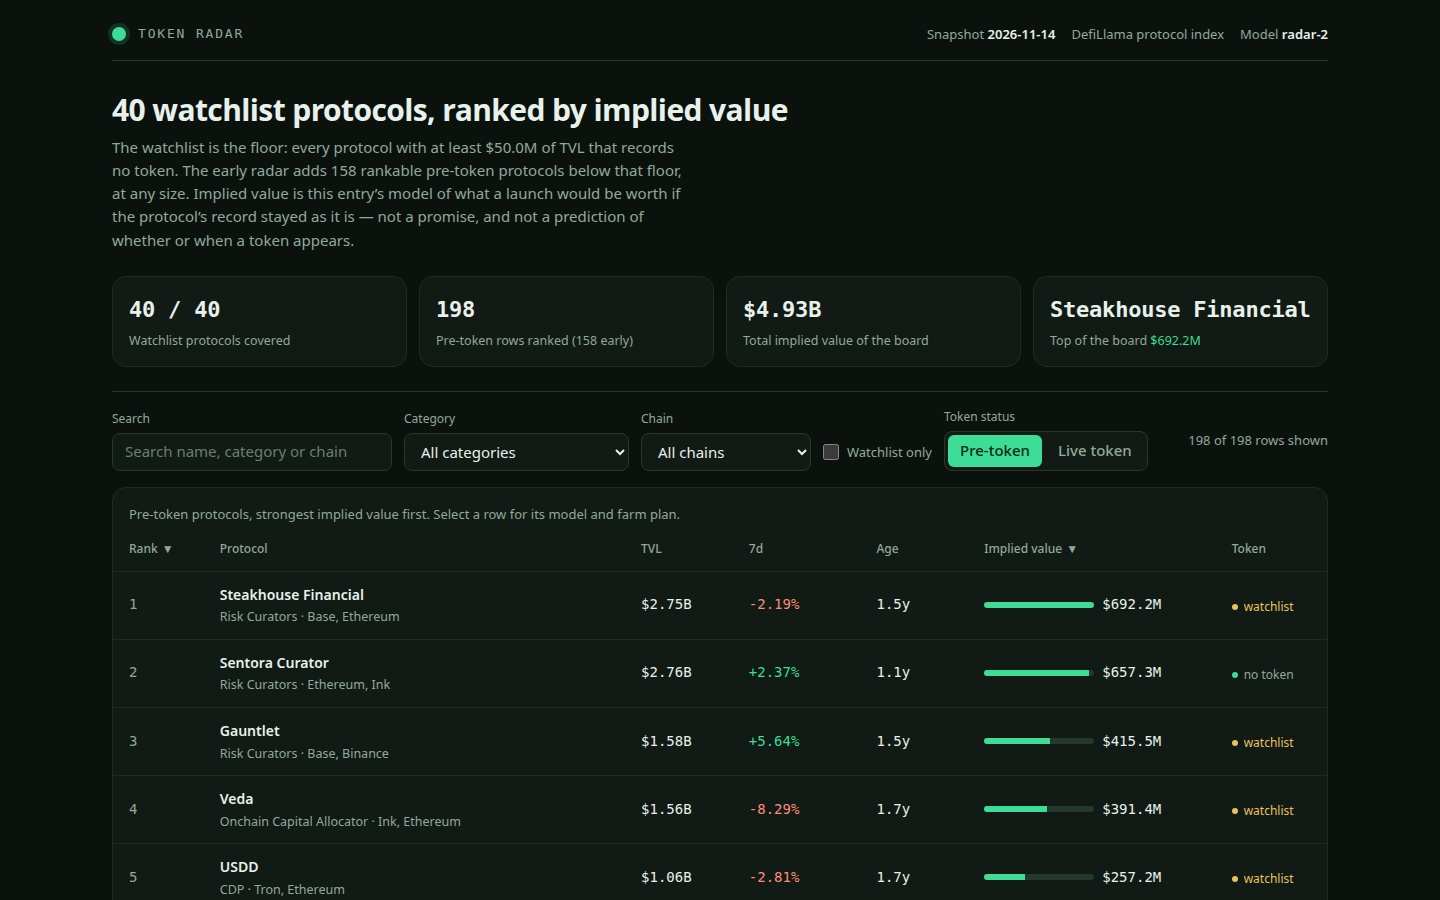
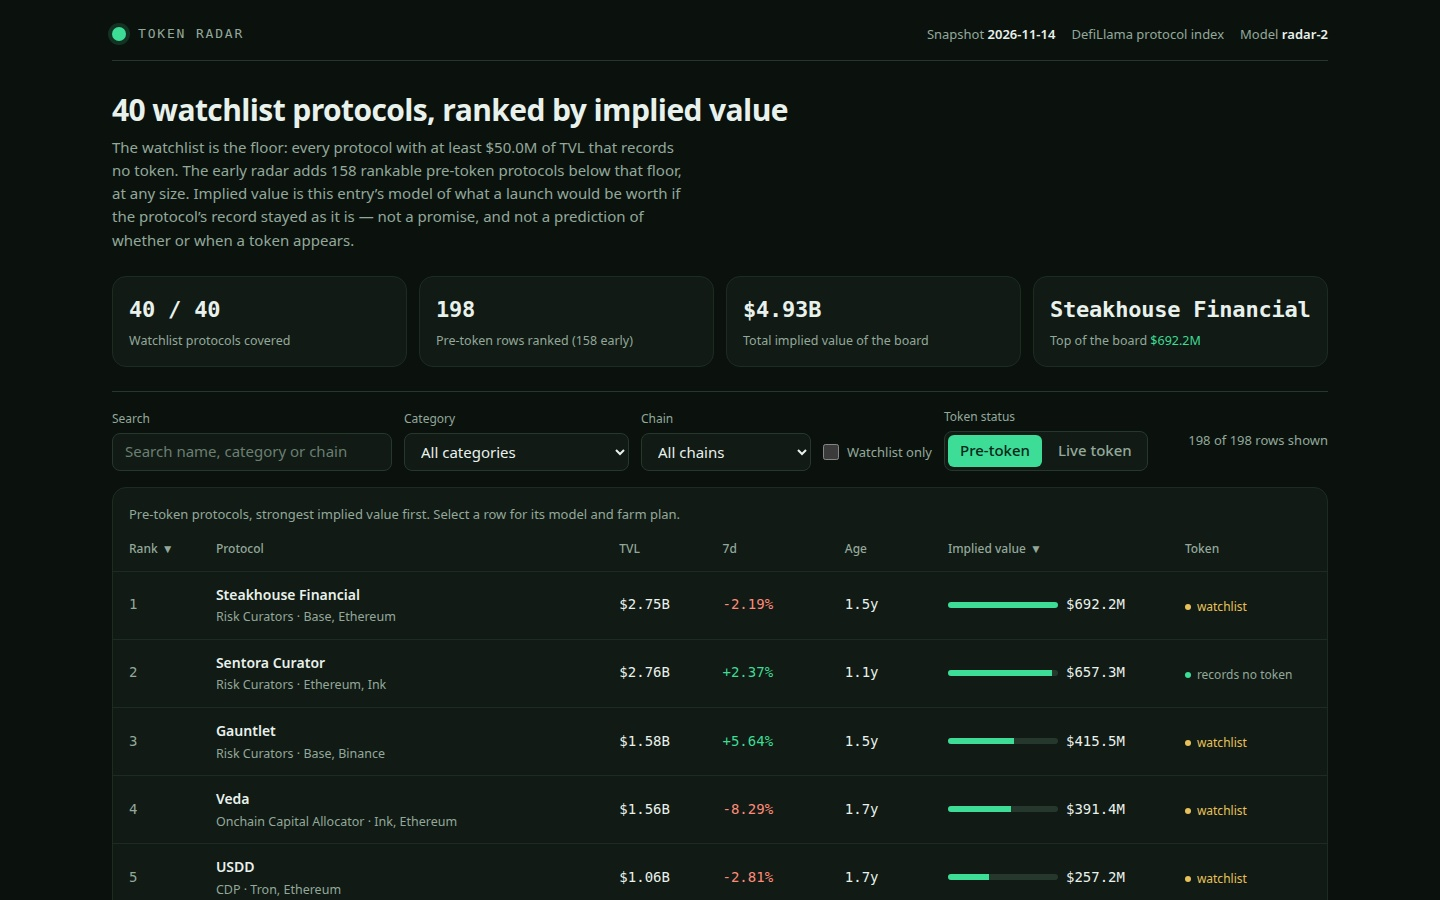
Dashboard: badge reads 'records no token'; re-capture screenshots
The pre-token badge said 'no token', looser than the entry's own
language elsewhere ('records no token' is the record, not proof it
has none). Screenshots re-captured from the revised dashboard so the
detail view shows the category-aware weekly farm step.

diff --git a/dashboard/app.js b/dashboard/app.js
@@ -257,7 +257,7 @@
           el('div', { class: 'bar', 'aria-hidden': 'true' }, el('i', { style: 'width:' + Math.max(3, Math.round((r.implied_value_usd / max) * 100)) + '%' })),
           el('span', { class: 'num', text: fmtUsd(r.implied_value_usd) })
         )),
-        el('td', null, el('span', { class: r.watchlist ? 'badge watch' : 'badge', text: r.watchlist ? 'watchlist' : 'no token' }))
+        el('td', null, el('span', { class: r.watchlist ? 'badge watch' : 'badge', text: r.watchlist ? 'watchlist' : 'records no token' }))
       );
       tbody.appendChild(tr);
     });
